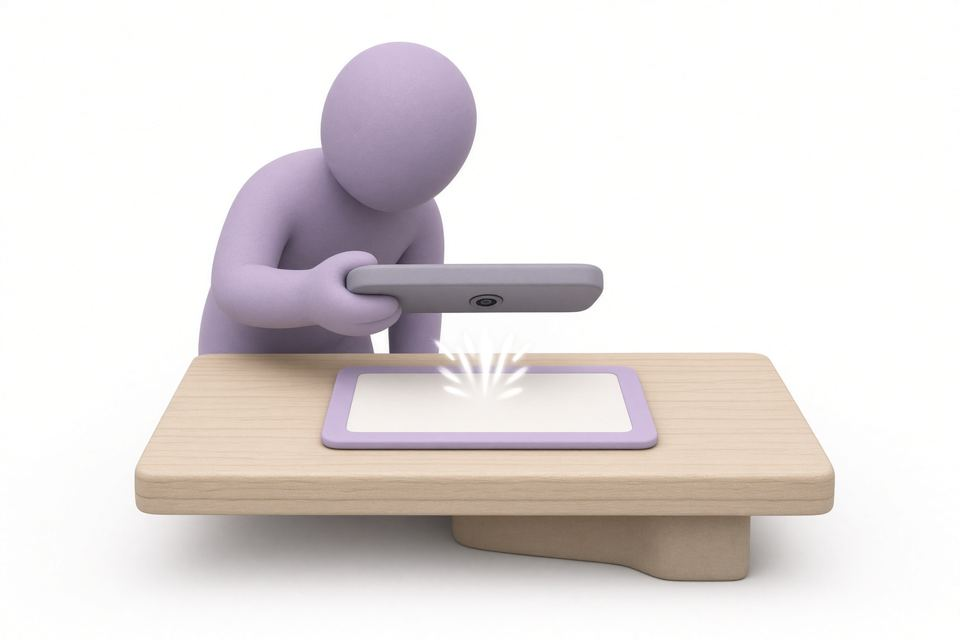
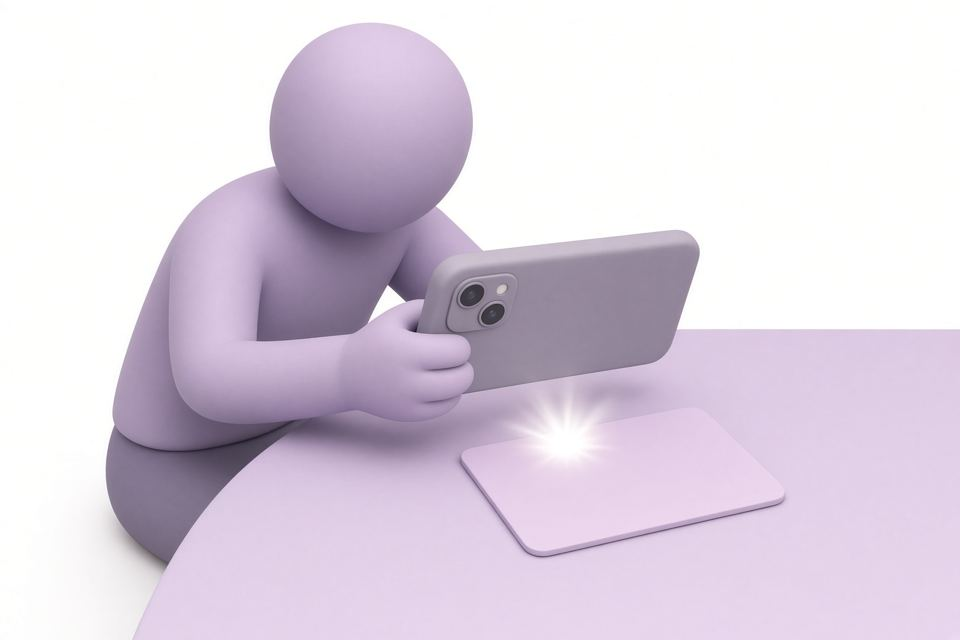
Put the phone camera at the top left facing the desk

diff --git a/index.html b/index.html
@@ -571,7 +571,7 @@
         </div>
         <div id="mycards-image-search-result" class="hidden"></div>
         <figure class="bg-white border border-gray-200 rounded-2xl overflow-hidden">
-          <img src="./guide-pictogram.jpg?v=4" alt="机に置いて、明るくして、真上から撮る" class="w-full h-auto">
+          <img src="./guide-pictogram.jpg?v=5" alt="机に置いて、明るくして、真上から撮る" class="w-full h-auto">
           <figcaption class="px-3 py-2 text-[12px] text-gray-600">机に置いて、明るくして、真上から撮る</figcaption>
         </figure>
         <div class="flex items-start gap-3">
@@ -1089,7 +1089,7 @@
                         <label class="block font-bold text-gray-800">📷 トレカ写真・AI自動入力 <span id="photo-req-label" class="text-pink-600">（必須・最大3枚）</span></label>
                     </div>
                     <figure class="bg-white border border-gray-200 rounded-xl overflow-hidden">
-                      <img src="./guide-pictogram.jpg?v=4" alt="机に置いて、明るくして、真上から撮る" class="w-full h-auto">
+                      <img src="./guide-pictogram.jpg?v=5" alt="机に置いて、明るくして、真上から撮る" class="w-full h-auto">
                       <figcaption class="px-2.5 py-1.5 text-[11px] text-gray-600">机に置いて、明るくして、真上から撮る</figcaption>
                     </figure>
                     <div class="grid grid-cols-2 gap-2">
